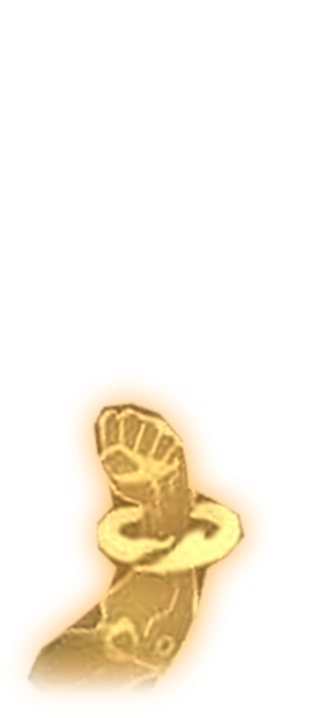
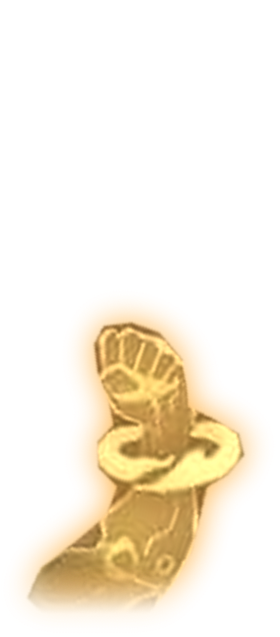
vfx-lab: Thần Thức Trảm — kiếm khí bao bọc bàn tay (lớp khí ôm sát nắm đấm) + lưỡi thẳng theo trục cẳng tay
Claude-Session: https://claude.ai/code/session_014A94BHnyL4tu48AS77QbVM

Changed region(s): [[0.0857, 0.4772, 0.9143, 0.9545]]

diff --git a/src/vfxlab/main.ts b/src/vfxlab/main.ts
@@ -39,8 +39,8 @@ class LabScene extends Phaser.Scene {
     for (const [key, f] of [[SHOCK_T3, 'shock_t3'], [SHOCK_T6, 'shock_t6']]) this.load.spritesheet(key, `/vfx/${f}.png?v=1`, { frameWidth: 256, frameHeight: 159 });
     for (const [n, key] of Object.entries(DRAGON_TEX)) for (const sf of ['', '_aw']) this.load.image(key + sf, `/vfx/dragon_${n}${sf}.png?v=4`);
     this.load.image(ORB_BOLT, '/vfx/orb_bolt.png?v=1');
-    this.load.image(QI_ARM, '/vfx/qi_arm.png?v=5');
-    this.load.image(QI_AURA, '/vfx/qi_aura.png?v=4');
+    this.load.image(QI_ARM, '/vfx/qi_arm.png?v=6');
+    this.load.image(QI_AURA, '/vfx/qi_aura.png?v=5');
     this.load.spritesheet(SPIRIT_ORB, '/vfx/spirit_orb.png?v=1', { frameWidth: 96, frameHeight: 96 });
     for (const [n, key] of Object.entries(BURN_TEX)) this.load.spritesheet(key, `/vfx/burn_${n}.png?v=2`, { frameWidth: 256, frameHeight: 201 });
     for (const [n, key] of Object.entries(BURN_TEX)) this.load.spritesheet(key + '_blue', `/vfx/burn_${n}_blue.png?v=1`, { frameWidth: 256, frameHeight: 201 });

diff --git a/src/vfx/skillFx.ts b/src/vfx/skillFx.ts
@@ -950,8 +950,8 @@ const nguyenAnh: Fx = (s, aw) => {
  *  (ảnh riêng cùng khung) — dựng đứng, mũi luồng khí ở trên */
 export const QI_ARM = 'vx_qi_arm';
 export const QI_AURA = 'vx_qi_aura';
-const QI_ARM_PIVOT: [number, number] = [0.522, 0.959];                    // khuỷu tay (điểm xoay khi chém)
-const QI_ARM_REACH = 609;                                                  // khuỷu → mũi lưỡi kiếm khí (px ảnh)
+const QI_ARM_PIVOT: [number, number] = [0.617, 0.954];                    // khuỷu tay (điểm xoay khi chém)
+const QI_ARM_REACH = 523;                                                  // khuỷu → mũi lưỡi kiếm khí (px ảnh)
 
 /**
  * THẦN THỨC TRẢM — thần thức hoá thành TAY KHÍ, nắm tay bọc LUỒNG KIẾM KHÍ vuốt nhọn thành lưỡi: hiện ra trên đầu

diff --git a/tools/art/qi_arm.py b/tools/art/qi_arm.py
@@ -5,9 +5,9 @@ có vòng xuyến) + LƯỠI KIẾM NĂNG LƯỢNG bọc nắm tay, nối dài t
   1) cắt cánh tay trên-phải (nắm đấm + vòng xuyến + cẳng tay) bằng đường viền tay vẽ theo ảnh mẫu; phần dưới khuỷu
      (cánh tay trên) mờ dần → tay khí hiện ra từ hư không
   2) quầng sáng vàng mềm quanh tay (thay quầng đỏ của nền mẫu)
-  3) lưỡi kiếm năng lượng: hình tam giác dài, CHÂN bo tròn ôm trọn nắm đấm, hai mép hơi lõm vuốt về một mũi nhọn nằm
-     trên trục cẳng tay (theo phác thảo của bạn). Dựng bằng hàm khoảng cách → mép sắc, cân đối.
-     Lớp vẽ: quầng ngoài · thân vàng (trong suốt dần về phía nắm tay để thấy tay) · viền sáng mảnh · sống kiếm trắng
+  3) KIẾM KHÍ BAO BỌC BÀN TAY: lớp khí mỏng ôm sát đường viền nắm đấm (viền sáng, trong để thấy tay), từ mép trên
+     bàn tay mọc ra một lưỡi kiếm thẳng nằm đúng trên trục cẳng tay. Dựng bằng hàm khoảng cách → mép sắc, cân đối.
+     Lớp vẽ: quầng ngoài · thân vàng · viền sáng mảnh · sống kiếm trắng · vân khí chạy dọc
   4) xoay cả hình cho trục cẳng tay DỰNG ĐỨNG; điểm xoay khi chém = khuỷu tay
   → public/vfx/qi_arm.png, qi_aura.png  (cùng khung để game chồng khít; lớp khí chớp nháy riêng)
 
@@ -30,10 +30,11 @@ ARM = [(22, 21), (30, 17), (40, 17), (50, 23), (55, 32), (57, 37), (66, 38), (76
        (72, 60), (73, 70), (74, 82), (72, 95), (68, 106), (61, 116), (50, 121), (38, 120), (28, 115),
        (29, 104), (37, 92), (44, 80), (44, 70), (36, 66), (33, 58), (36, 51), (32, 44), (25, 36), (21, 28)]
 ELBOW = (75, 102)                        # khuỷu tay
-FIST_C = (53.6, 41.4)                    # tâm nắm đấm — trục cẳng tay: khuỷu → tâm nắm đấm
-TIP = (8.8, -89.8)                       # mũi lưỡi kiếm (trên trục kéo dài)
-BASE_W = 25                              # nửa bề rộng chân lưỡi (ôm nắm đấm)
-BASE_R = 13                              # bán kính bo chân lưỡi phía dưới tâm nắm đấm
+FIST_C = (53.6, 41.4)                    # cổ tay (điểm bạn đánh dấu) — trục cẳng tay: khuỷu → điểm này
+FIST = [(22, 21), (30, 17), (40, 17), (50, 23), (55, 32), (57, 38), (52, 45), (40, 47), (30, 44), (23, 36), (21, 28)]  # bàn tay (nắm đấm)
+BLADE_U0 = 21                            # chân lưỡi: khoảng cách (dọc trục, từ FIST_C) tới mép trên nắm đấm
+BLADE_L = 110                            # FIST_C → mũi lưỡi
+TIP = (FIST_C[0] + (FIST_C[0] - ELBOW[0]) / 64.27 * BLADE_L, FIST_C[1] + (FIST_C[1] - ELBOW[1]) / 64.27 * BLADE_L)  # mũi (trên trục kéo dài)
 
 
 def main():
@@ -81,25 +82,34 @@ def main():
     fcx, fcy = C(*FIST_C)
     u = (X - fcx) * ux + (Y - fcy) * uy                                      # dọc trục từ tâm nắm đấm, + lên mũi
     v = (X - fcx) * nx + (Y - fcy) * ny                                      # ngang trục
-    L = np.hypot(TIP[0] - FIST_C[0], TIP[1] - FIST_C[1]) * UP                # tâm nắm đấm → mũi
-    Wb, Rb = BASE_W * UP, BASE_R * UP
-    up = np.clip(u / L, 0, 1)
-    hw = np.where(u >= 0, Wb * (1 - up) ** 1.25,                             # hai mép hơi lõm vuốt về mũi
-                  Wb * np.sqrt(np.clip(1 - (u / Rb) ** 2, 0, 1)))           # chân bo tròn ôm nắm đấm
-    d = np.where(u <= L, np.abs(v) - hw, np.hypot(v, u - L))
-    d = np.where(u < -Rb, np.hypot(v, u + Rb) + Wb * 0, d)
-    d = np.maximum(d, -Wb * 2)
+    L = BLADE_L * UP                                                         # tâm cổ tay → mũi
+    # (a) VỎ KIẾM KHÍ ôm sát bàn tay: khoảng cách tới mặt nạ nắm đấm (bo tròn góc), nở ra 3px
+    fmask = Image.new('L', (CW * SS, CH * SS), 0)
+    ImageDraw.Draw(fmask).polygon([(C(x, y)[0] * SS, C(x, y)[1] * SS) for x, y in FIST], fill=255)
+    fm = ndimage.gaussian_filter(np.array(fmask).astype(float), 2.5 * UP * SS) > 127
+    dE = (ndimage.distance_transform_edt(~fm) - ndimage.distance_transform_edt(fm)) / SS - 3 * UP
+    # (b) LƯỠI KIẾM thẳng trên trục cẳng tay, mọc ra từ mép trên bàn tay: hai mép song song, vát nhọn 22% cuối,
+    #     loe sáng ở chân; phần dưới chân chìm vào vỏ
+    u0 = BLADE_U0 * UP                                                       # chỗ trục ló ra khỏi mép trên nắm đấm
+    W = 6.5 * UP
+    taper = W * (1 - 0.2 * np.clip((u - u0) / (L * 0.78), 0, 1))
+    hw = np.where(u < L * 0.78, taper, W * 0.8 * np.clip((L - u) / (L * 0.22), 0, 1))
+    hw = hw + 2.5 * UP * np.exp(-np.maximum(u - u0, 0) / (6 * UP))                  # loe sáng ở chân lưỡi
+    dB = np.where(u < L, np.abs(v) - hw, np.hypot(v, u - L)) + np.maximum(u0 + 6 * UP - u, 0) ** 1.5 / (2 * UP) ** 0.5
+    k = 8 * UP                                                               # hợp mượt vỏ + lưỡi
+    hh = np.clip(0.5 + 0.5 * (dE - dB) / k, 0, 1)
+    d = dE * (1 - hh) + dB * hh - k * hh * (1 - hh)
     aa = 0.9
     fill = np.clip(0.5 - d / aa, 0, 1)                                       # bên trong (mép sắc)
     rim = np.exp(-(d / (1.1 * UP)) ** 2)                                     # viền sáng mảnh
     glowO = np.exp(-np.maximum(d, 0) / (6 * UP)) * (d > 0)                   # quầng ngoài
-    inner = np.clip(-d / np.maximum(hw, 1e-3), 0, 1)                         # 0 ở mép → 1 ở sống kiếm
-    # thân lưỡi đặc dần từ nắm tay lên (nắm tay nằm trong lưỡi vẫn nhìn rõ)
-    solid = np.clip((u - 4 * UP) / (50 * UP), 0, 1) ** 0.8
-    bodyA = fill * (0.1 + 0.75 * solid) * (0.75 + 0.25 * inner)
-    core = np.exp(-(v / (1.5 * UP)) ** 2) * np.clip((u - 4 * UP) / (14 * UP), 0, 1) * np.clip((L * 0.97 - u) / (L * 0.12), 0, 1)
-    vein = (0.5 + 0.5 * np.sin(v / (2.2 * UP) * np.pi + np.sin(u / (11 * UP)) * 1.5)) * 0.22 * solid
-    A = np.clip(np.maximum.reduce([bodyA, rim * 0.95, glowO * 0.4, core]), 0, 1)
+    inner = np.clip(-d / W, 0, 1)                                            # 0 ở mép → 1 ở sống kiếm
+    # thân: lưỡi đặc; vỏ quanh bàn tay chỉ là lớp khí mỏng + viền sáng (thấy rõ tay bên trong)
+    solid = hh ** 1.5
+    bodyA = fill * (0.16 + 0.66 * solid) * (0.75 + 0.25 * inner)
+    core = np.exp(-(v / (1.4 * UP)) ** 2) * np.clip((u - u0 + 4 * UP) / (10 * UP), 0, 1) * np.clip((L * 0.97 - u) / (L * 0.12), 0, 1) * solid
+    vein = (0.5 + 0.5 * np.sin(v / (1.8 * UP) * np.pi + np.sin(u / (11 * UP)) * 1.5)) * 0.22 * solid
+    A = np.clip(np.maximum.reduce([bodyA, rim * (0.6 + 0.35 * solid), glowO * (0.3 + 0.15 * solid), core]), 0, 1)
     c_out = np.array([255, 150, 40.]); c_body = np.array([255, 200, 85.]); c_hot = np.array([255, 242, 190.])
     tt = np.clip(inner * 1.3 + vein, 0, 1)[..., None]
     col = c_body * (1 - tt) + c_hot * tt
